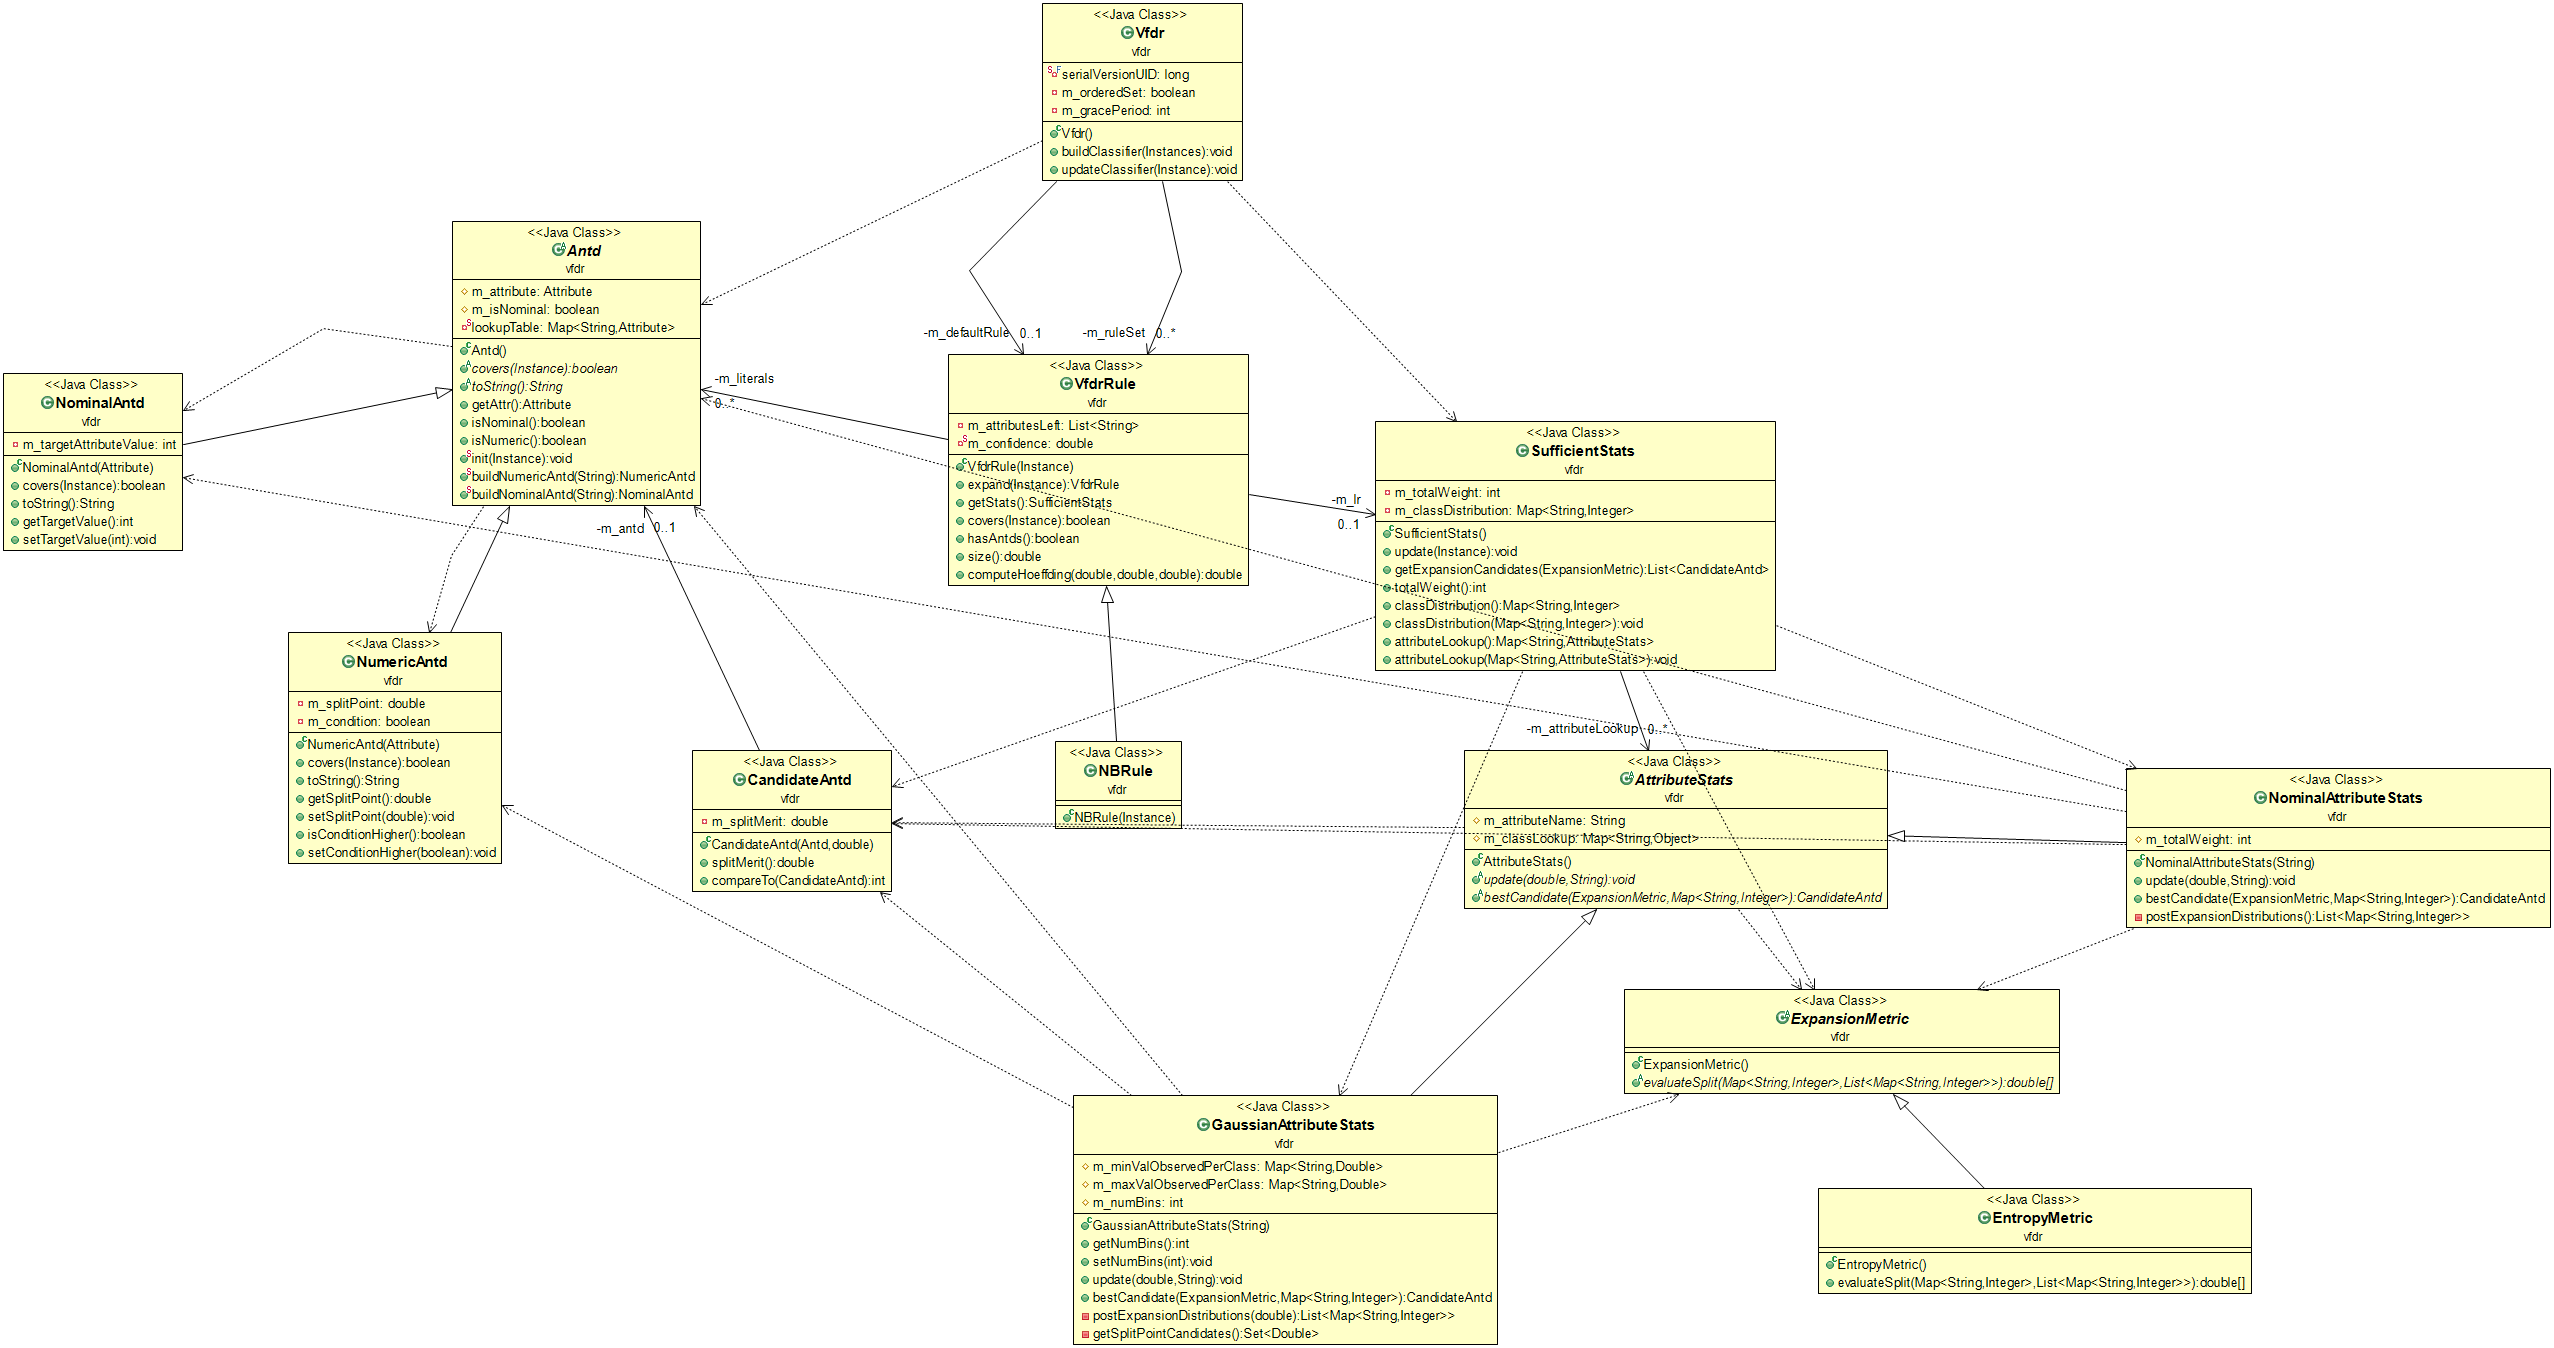
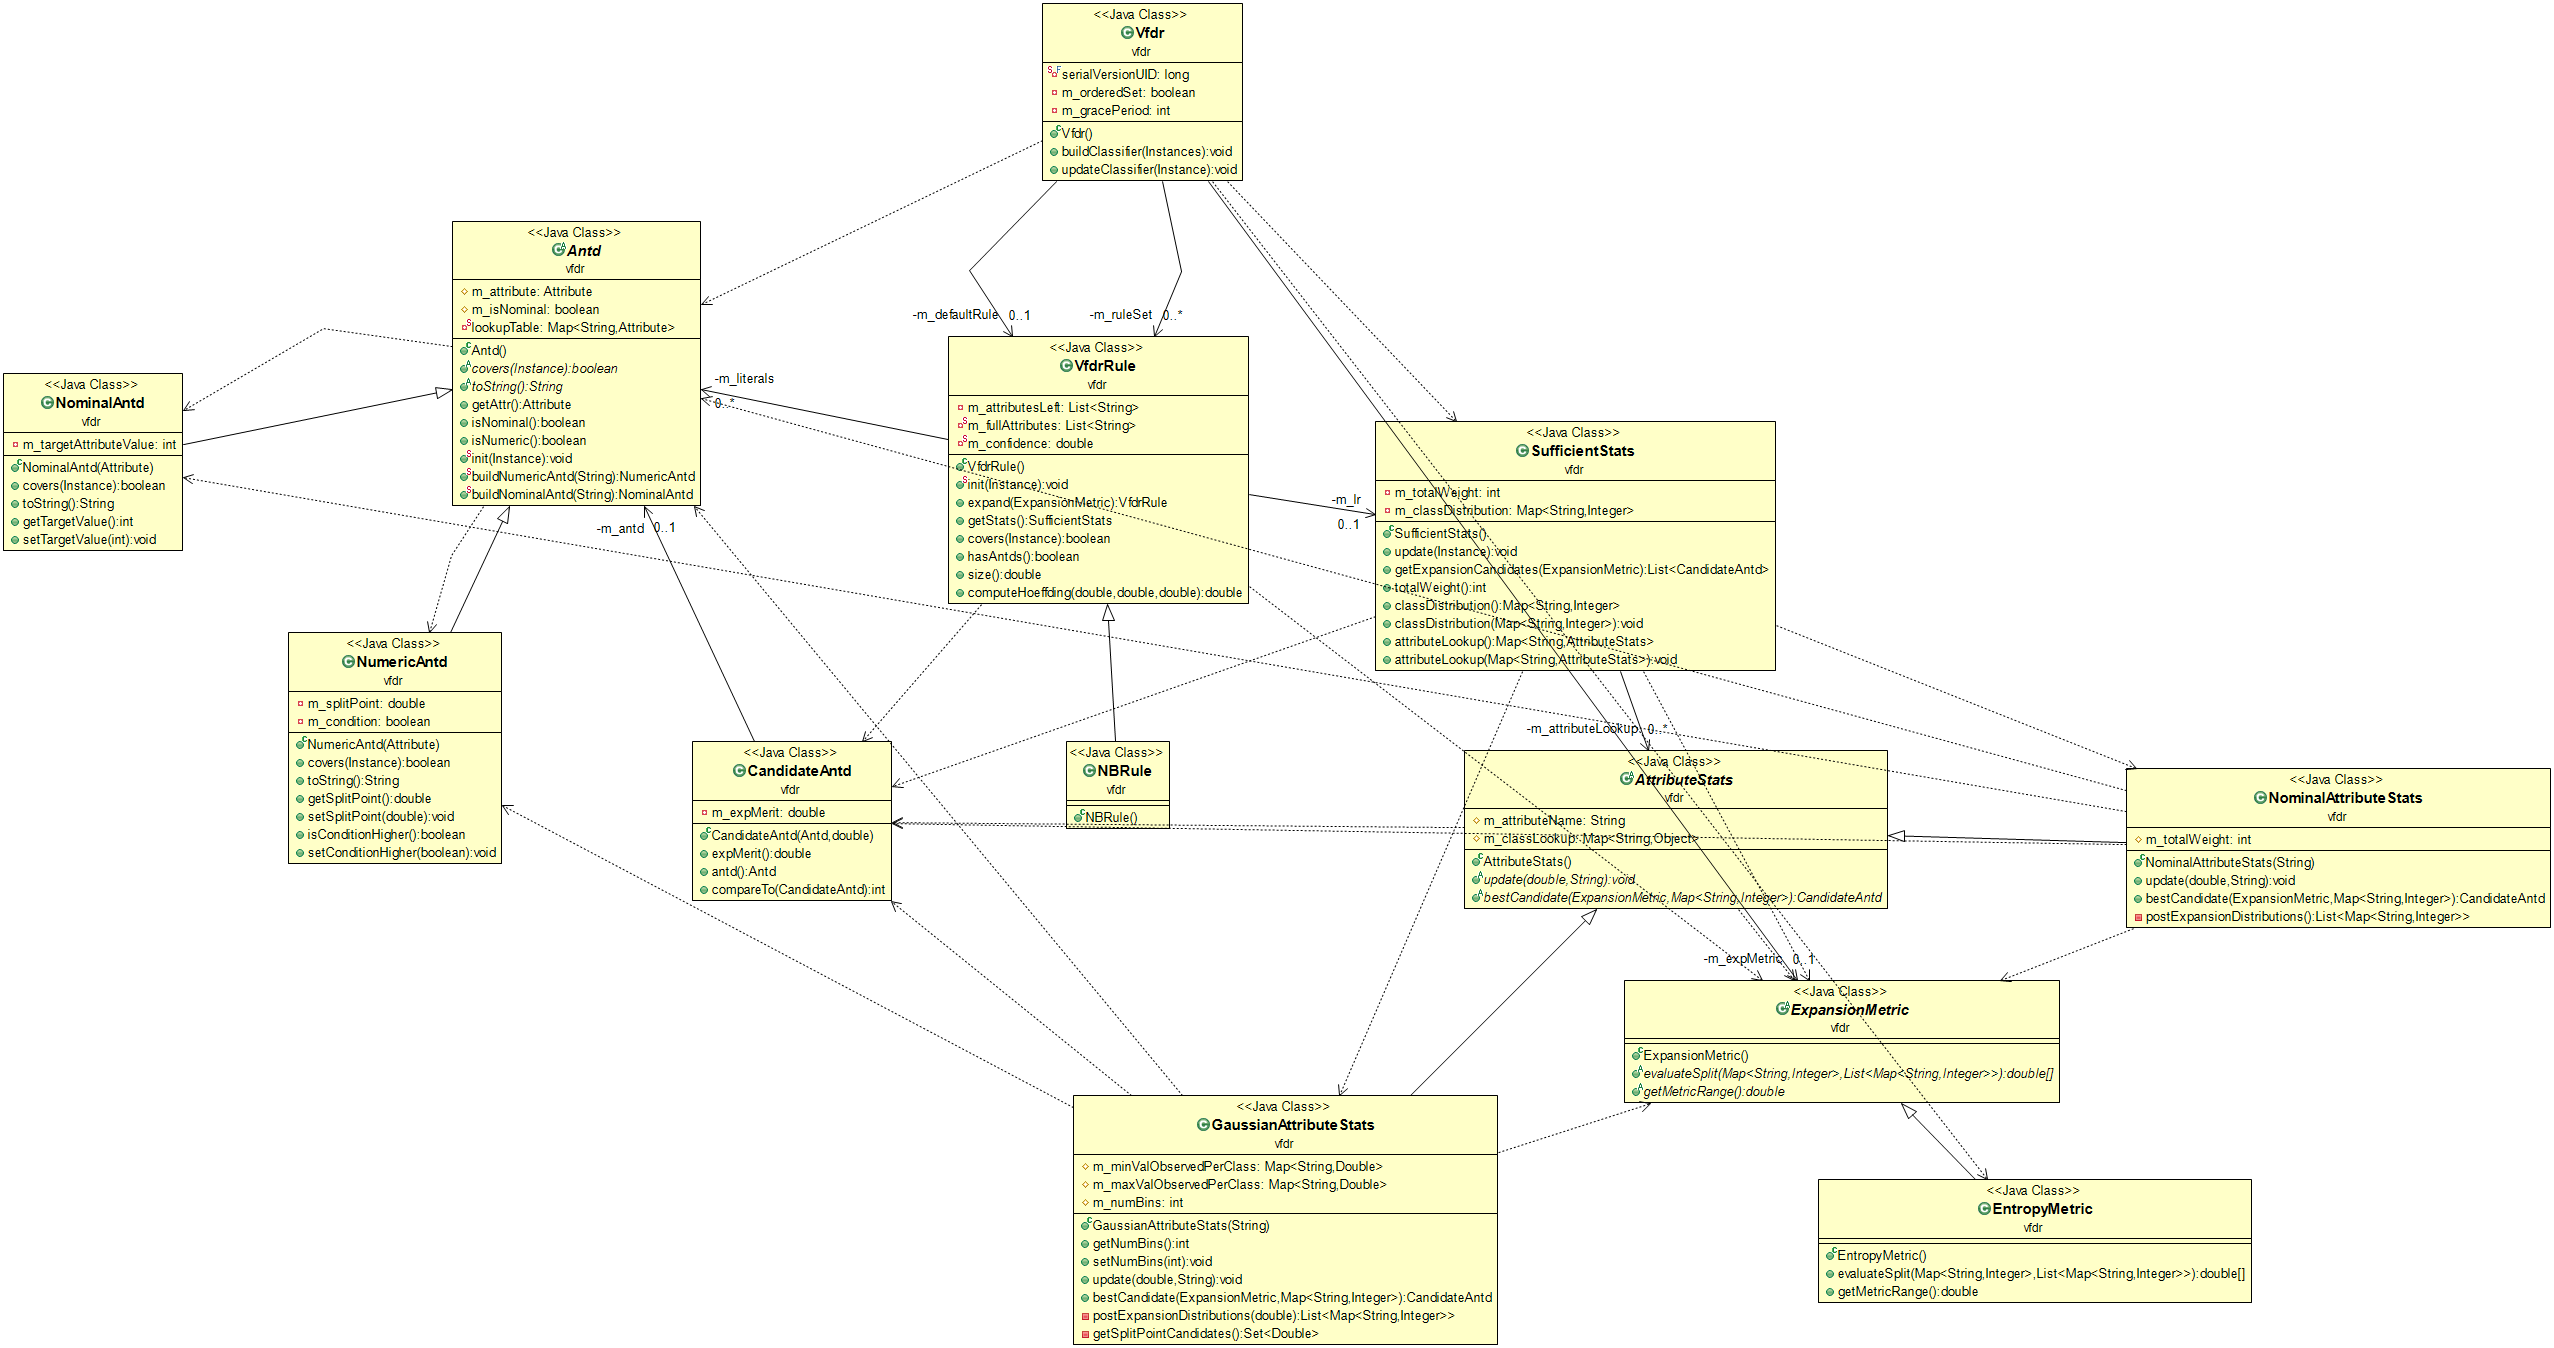
Finished writing the expansion routine

diff --git a/Vfdr-weka/src/vfdr/VfdrRule.java b/Vfdr-weka/src/vfdr/VfdrRule.java
@@ -1,9 +1,11 @@
 package vfdr;
 
 import java.util.ArrayList;
+import java.util.Collections;
 import java.util.List;
 import java.util.Map;
 
+import weka.core.Copyable;
 import weka.core.Instance;
 
 /**
@@ -19,6 +21,8 @@ public class VfdrRule {
 	 */
 	private List<String> m_attributesLeft;
 
+	private static List<String> m_fullAttributes;
+
 	/**
 	 * One minus the desired probability of choosing the correct attribute (used
 	 * in the computation of the Hoeffding bound)
@@ -32,29 +36,67 @@ public class VfdrRule {
 	/**
 	 * Builds a VfdrRule
 	 */
-	public VfdrRule(Instance template) {
+	public VfdrRule() {
 		m_literals = new ArrayList<>();
 		m_lr = new SufficientStats();
-		m_attributesLeft = new ArrayList<>();
+		m_attributesLeft = new ArrayList<>(m_fullAttributes);
+	}
+
+	public static void init(Instance template) {
+		m_fullAttributes = new ArrayList<>();
 		for (int i = 0; i < template.numAttributes(); i++) {
-			m_attributesLeft.add(template.attribute(i).name());
+			m_fullAttributes.add(template.attribute(i).name());
 		}
 	}
 
 	/**
 	 * Expands a rule according to its sufficient statistics.
 	 * 
-	 * FIXME TODO
+	 * @param expMetric
+	 *            The metric used to get the best expansion possible
+	 * @return a new VfdrRule if the default rule was expanded, or {@code this}
+	 *         otherwise
+	 * 
 	 */
-	public VfdrRule expand(Instance x) {
+	public VfdrRule expand(ExpansionMetric expMetric) {
 
 		// i.e. distribution is impure
 		if (m_lr.classDistribution().size() > 1) {
-			double hoeffding = computeHoeffding(1, m_confidence, m_lr.totalWeight());
 
+			List<CandidateAntd> bestCandidates = m_lr.getExpansionCandidates(expMetric);
+			Collections.sort(bestCandidates);
+
+			boolean doExpand = false;
+
+			if (bestCandidates.size() > 0) {
+				double hoeffding = computeHoeffding(expMetric.getMetricRange(), m_confidence, m_lr.totalWeight());
+
+				CandidateAntd best = bestCandidates.get(bestCandidates.size() - 1);
+				CandidateAntd secondBest = bestCandidates.get(bestCandidates.size() - 2);
+
+				if (best.expMerit() - secondBest.expMerit() > hoeffding) {
+					doExpand = true;
+				}
+			}
+
+			if (doExpand) {
+				CandidateAntd best = bestCandidates.get(bestCandidates.size() - 1);
+
+				// It's an expansion of the default rule
+				if (m_literals.size() == 0) {
+					VfdrRule newRule = new VfdrRule();
+					newRule.m_literals.add(best.antd());
+					newRule.m_attributesLeft.remove(best.antd().getAttr().name());
+					return newRule;
+
+				} else {
+					m_literals.add(best.antd());
+					return this;
+				}
+
+			}
 		}
 		return this;
-
 	}
 
 	/**
@@ -72,7 +114,6 @@ public class VfdrRule {
 			if (!x.covers(datum))
 				return false;
 		}
-		// TODO update lr here (or higher in call stack)
 		return true;
 	}
 
@@ -94,9 +135,7 @@ public class VfdrRule {
 	 * Computes the Hoeffding bound
 	 * 
 	 * @param range
-	 *            Range of the split metric (log2(n) for n-class classification
-	 *            problems, that is, 1 for binary classification; see
-	 *            https://www-users.cs.umn.edu/~kumar/dmbook/ch4.pdf fig. 4.13)
+	 *            Range of the split metric
 	 * @param confidence
 	 *            Confidence threshold
 	 * @param weight

diff --git a/Vfdr-weka/src/vfdr/Vfdr.java b/Vfdr-weka/src/vfdr/Vfdr.java
@@ -31,12 +31,17 @@ public class Vfdr extends AbstractClassifier implements UpdateableClassifier {
 	/**
 	 * Whether the set of rules is ordered or not
 	 */
-	private boolean m_orderedSet;
+	private boolean m_orderedSet = false;
 
 	/**
 	 * Minimal number of uncovered examples needed to expand a rule.
 	 */
 	private int m_gracePeriod = 40;
+
+	/**
+	 * The metric used to determine best expansions
+	 */
+	private ExpansionMetric m_expMetric = new EntropyMetric();
 
 	/**
 	 * Set of rules built
@@ -52,18 +57,17 @@ public class Vfdr extends AbstractClassifier implements UpdateableClassifier {
 		// can classifier handle the data?
 		// getCapabilities().testWithFail(instances); // TODO
 
-		
 		instances = new Instances(instances);
 		instances.deleteWithMissingClass();
 
 		// TODO examples must be randomized (see Domingos & Hulten, Mining
 		// high-speed data streams, page 2 note 1)
 
-		m_ruleSet = new ArrayList<>();
-		m_defaultRule = new VfdrRule(instances.get(0));
-		
 		Antd.init(instances.get(0));
-		
+		VfdrRule.init(instances.get(0));
+
+		m_ruleSet = new ArrayList<>();
+		m_defaultRule = new VfdrRule();
 
 		// TODO make subsets
 		for (Instance x : instances) {
@@ -91,7 +95,7 @@ public class Vfdr extends AbstractClassifier implements UpdateableClassifier {
 				lr.update(x);
 
 				if (lr.totalWeight() > m_gracePeriod) {
-					r = r.expand(x);
+					r = r.expand(m_expMetric);
 				}
 
 				if (m_orderedSet) {
@@ -103,7 +107,7 @@ public class Vfdr extends AbstractClassifier implements UpdateableClassifier {
 		if (trigerred == 0) {
 			m_defaultRule.getStats().update(x);
 			if (m_defaultRule.getStats().totalWeight() > m_gracePeriod) {
-				m_ruleSet.add(m_defaultRule.expand(x));
+				m_ruleSet.add(m_defaultRule.expand(m_expMetric));
 			}
 
 		}

diff --git a/Vfdr-weka/src/vfdr/CandidateAntd.java b/Vfdr-weka/src/vfdr/CandidateAntd.java
@@ -4,12 +4,12 @@ public class CandidateAntd implements Comparable<CandidateAntd> {
 
 	private Antd m_antd;
 
-	/** The merit of the split (metric-dependent) */
-	private double m_splitMerit;
+	/** The merit of the expansion (metric-dependent) */
+	private double m_expMerit;
 
-	public CandidateAntd(Antd antd, double splitMerit) {
+	public CandidateAntd(Antd antd, double expMerit) {
 		m_antd = antd;
-		m_splitMerit = splitMerit;
+		m_expMerit = expMerit;
 	}
 
 	/**
@@ -17,8 +17,17 @@ public class CandidateAntd implements Comparable<CandidateAntd> {
 	 * 
 	 * @return the split merit of this candidate
 	 */
-	public double splitMerit() {
-		return m_splitMerit;
+	public double expMerit() {
+		return m_expMerit;
+	}
+
+	/**
+	 * Gets the antecedent for this candidate
+	 * 
+	 * @return The antecedent
+	 */
+	public Antd antd() {
+		return m_antd;
 	}
 
 	/**
@@ -30,7 +39,7 @@ public class CandidateAntd implements Comparable<CandidateAntd> {
 	 */
 	@Override
 	public int compareTo(CandidateAntd ca) {
-		return Double.compare(m_splitMerit, ca.m_splitMerit);
+		return Double.compare(m_expMerit, ca.m_expMerit);
 	}
 
 }

diff --git a/Vfdr-weka/src/vfdr/SufficientStats.java b/Vfdr-weka/src/vfdr/SufficientStats.java
@@ -69,20 +69,17 @@ public class SufficientStats {
 	/**
 	 * Gets the best antecedents that have been worked out for each attribute
 	 * 
-	 * @return
+	 * @return a list of best antecedents for every attribute
 	 */
 	public List<CandidateAntd> getExpansionCandidates(ExpansionMetric expMetric) {
 
 		List<CandidateAntd> candids = new ArrayList<>();
-		
+
 		for (Map.Entry<String, AttributeStats> en : m_attributeLookup.entrySet()) {
 			AttributeStats astat = en.getValue();
-			
-			// best candidate for this attribute
-			CandidateAntd acand = astat.bestCandidate(expMetric, m_classDistribution);
+			candids.add(astat.bestCandidate(expMetric, m_classDistribution));
 		}
 
-		
 		return candids;
 	}
 

diff --git a/Vfdr-weka/src/vfdr/ExpansionMetric.java b/Vfdr-weka/src/vfdr/ExpansionMetric.java
@@ -29,4 +29,11 @@ public abstract class ExpansionMetric {
 	 */
 	public abstract double[] evaluateSplit(Map<String, Integer> preDist, List<Map<String, Integer>> postDists);
 
+	/**
+	 * Gets the range of the metric. Used to compute Hoeffding's bound
+	 * 
+	 * @return The range of the metric
+	 */
+	public abstract double getMetricRange();
+
 }

diff --git a/Vfdr-weka/src/vfdr/NBRule.java b/Vfdr-weka/src/vfdr/NBRule.java
@@ -1,11 +1,9 @@
 package vfdr;
 
-import weka.core.Instance;
-
 public class NBRule extends VfdrRule {
 
-	public NBRule(Instance template) {
-		super(template);
+	public NBRule() {
+		super();
 		// TODO Auto-generated constructor stub
 	}
 

diff --git a/Vfdr-weka/src/vfdr/EntropyMetric.java b/Vfdr-weka/src/vfdr/EntropyMetric.java
@@ -56,4 +56,10 @@ public class EntropyMetric extends ExpansionMetric {
 		return scores;
 	}
 
+	
+	@Override
+	public double getMetricRange() {
+		return 1;
+	}
+
 }
